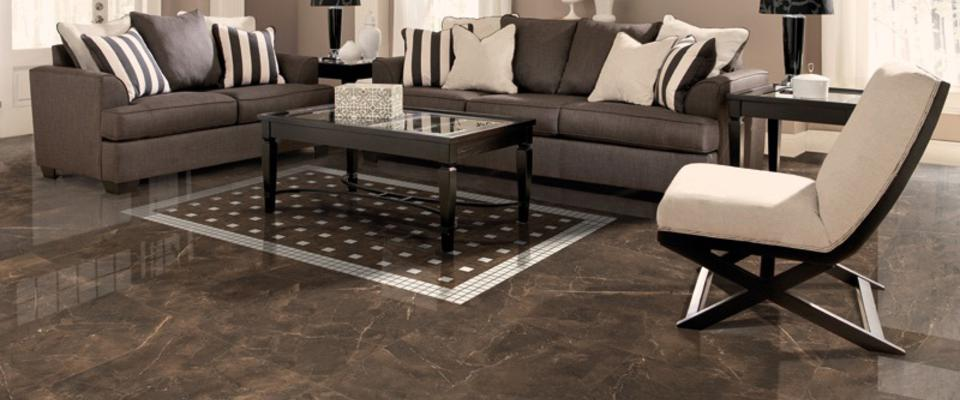
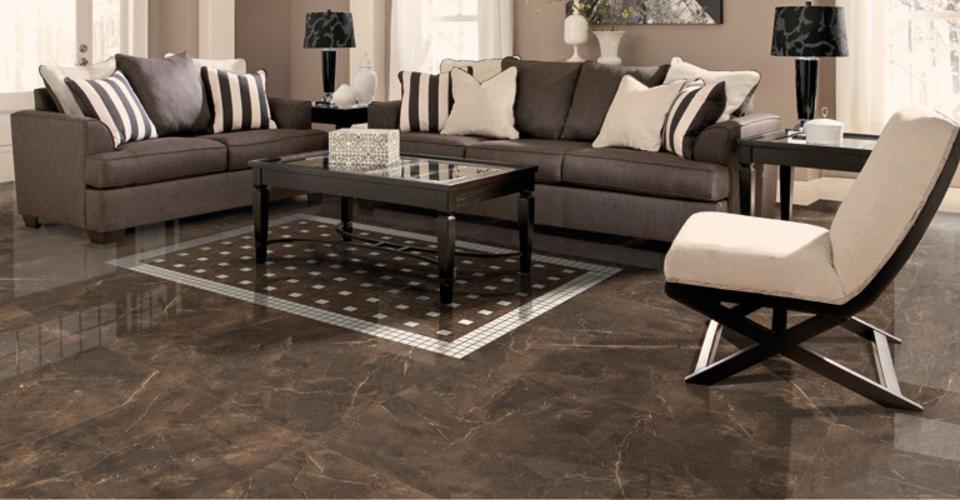
Increase img size in slider

diff --git a/index.html b/index.html
@@ -70,7 +70,7 @@
 					<img src="img/home/slider-07.jpg" />
 			  </div>
 			  <div class="home-slider__welcome-text">
-			    La nostra azienda si occupa di ceramiche per pavimenti (interni ed esterni), rivestimenti, cucine, arredo bagno e tutto ciò che serve per rendere la vostra casa un ambiente più confortevole. Qualità, soluzione, assistenza totale e prezzo competitivo sono le caratteristiche fondamentali del nostro lavoro che non vengono mai a meno.
+			    La nostra azienda si occupa di ceramiche per pavimenti (interni ed esterni), rivestimenti, cucine, arredo bagno ideali per rendere la vostra casa un ambiente più confortevole. Qualità, assistenza totale e prezzo competitivo sono le caratteristiche fondamentali del nostro lavoro che non vengono mai a meno.
 			  </div>
 			</div>
 

diff --git a/gulpfile.js b/gulpfile.js
@@ -55,7 +55,7 @@ gulp.task('slider-img', function () {
   	.pipe(changed('./img/home/slider-*.{jpg,png}'))
     .pipe(imageResize({ 
       width : 960,
-      height : 400,
+      height : 500,
       crop : true,
       upscale : true
     }))
